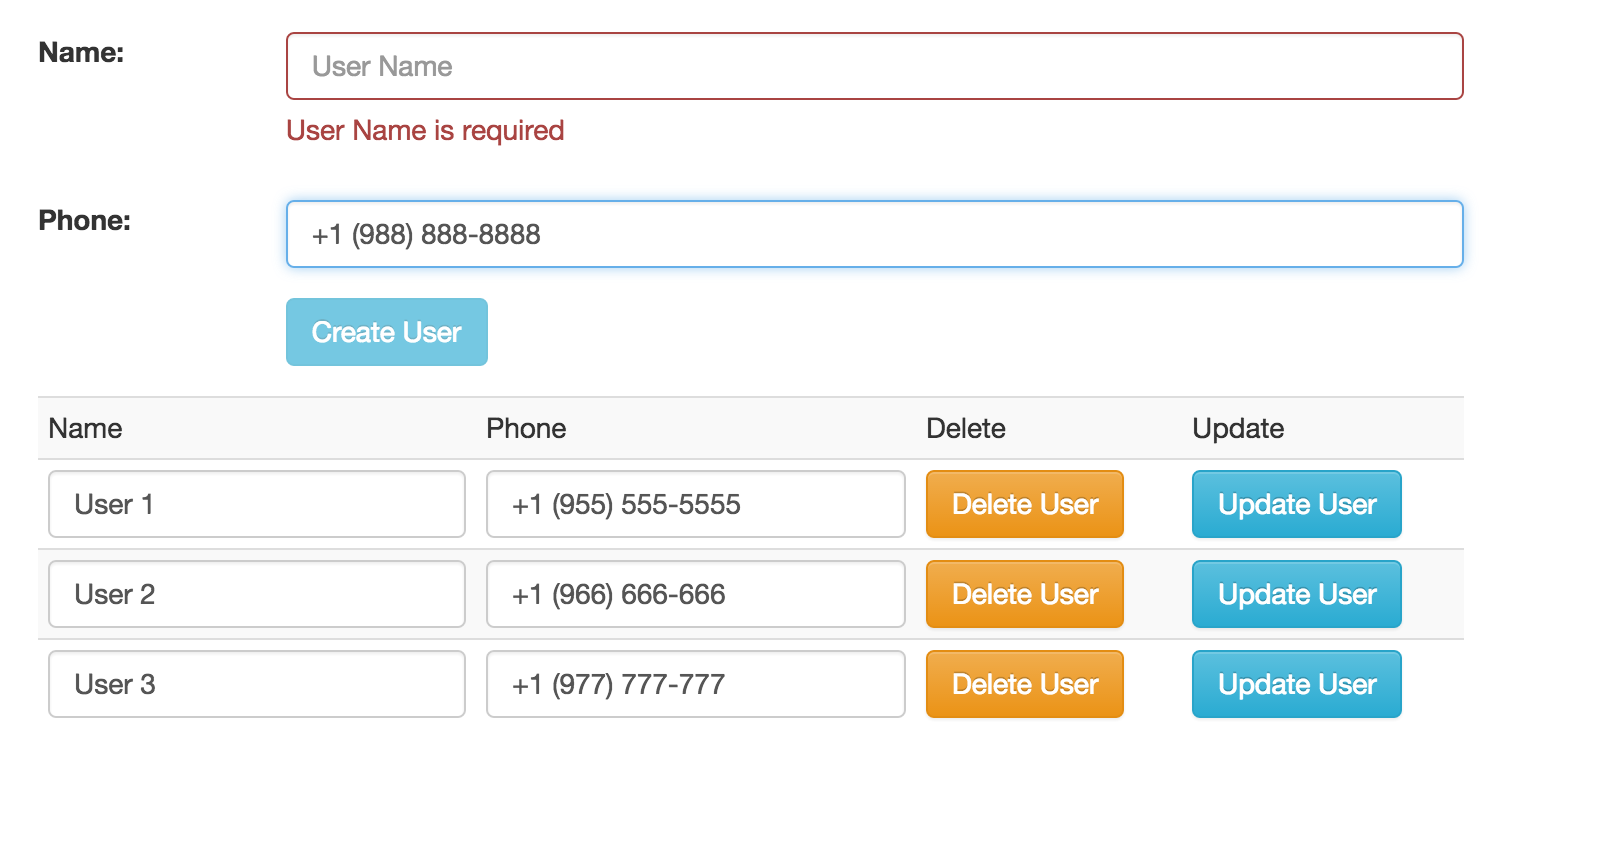
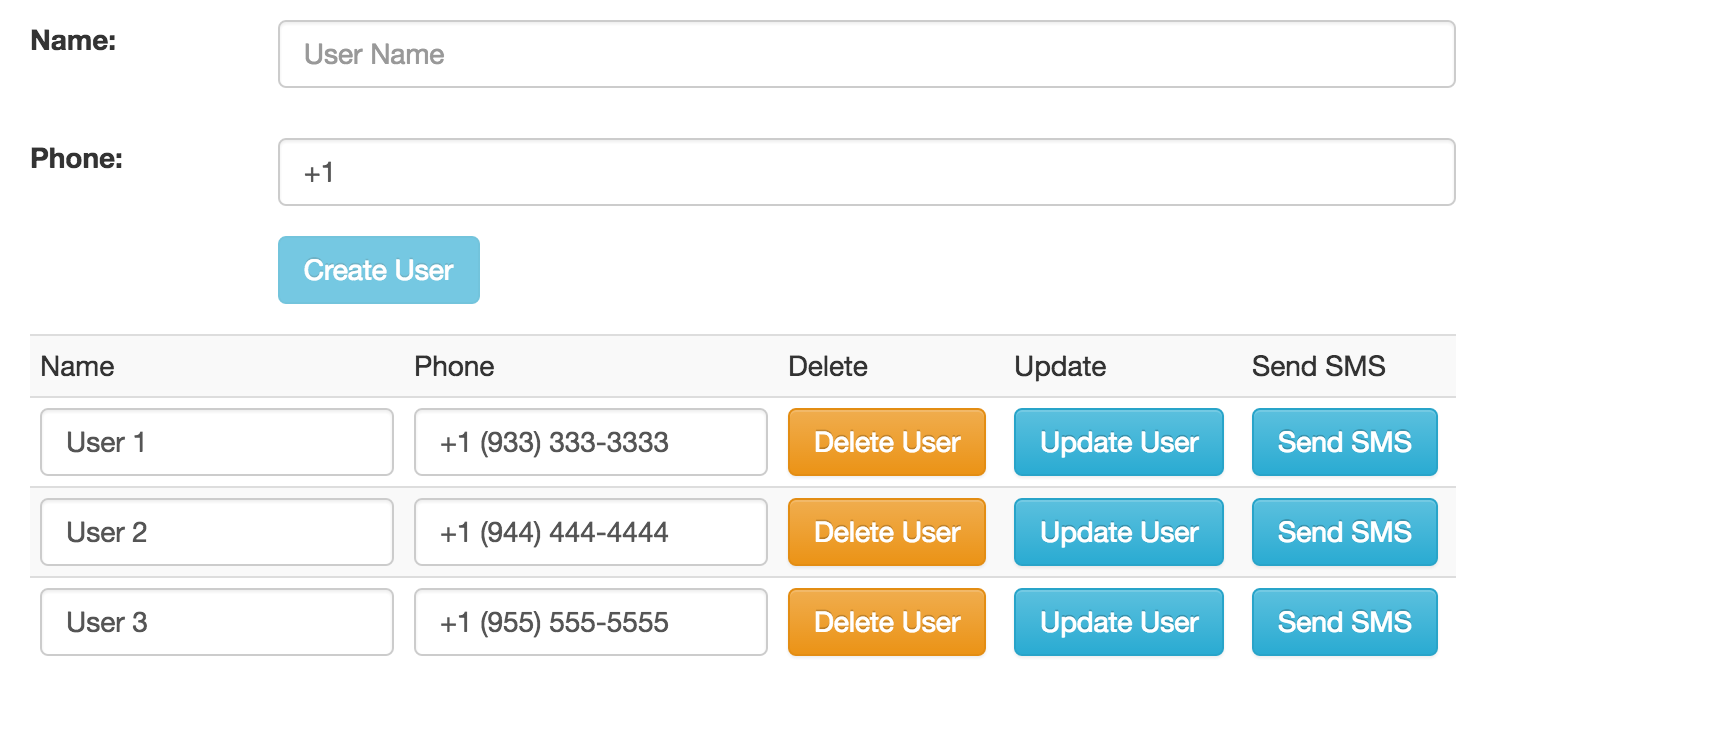
Add screenshots

diff --git a/README.md b/README.md
@@ -3,16 +3,24 @@
 
 This is a project based on **Struts2 Spring** and **Hibernate** framework. 
 
-It implemented **create, read, update and delete** function.
-
 Front end used **bootstrap** for UI. 
 
 IDE: **Intellij**.
 
 Project Management: **Maven**.
 
+It implemented **create, read, update and delete** function.
+
+**New Features**
+Send SMS using **Twilio**
+
 Screenshot: 
 
+Index page:
 ![alt text][sshCRUD_screenshot]
 
+Send SMS Modal:
+![alt text][sendSmsModal]
+
 [sshCRUD_screenshot]: https://github.com/fishzhe/StrutsSpringHibernateCRUD/blob/master/sshCRUD.png "CRUD screenshot"
+[sendSmsModal]: https://github.com/fishzhe/StrutsSpringHibernateCRUD/blob/master/sendSmsModal.png "Send SMS Modal screenshot"
